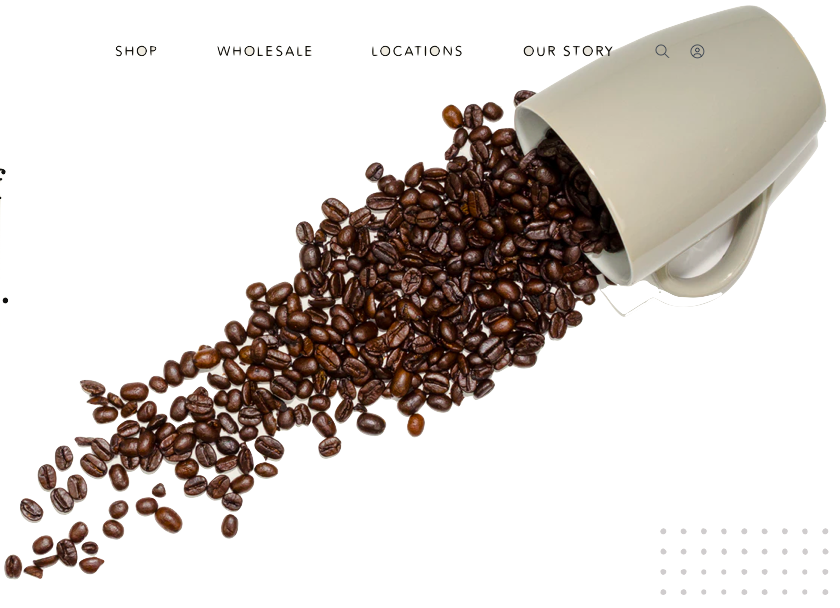
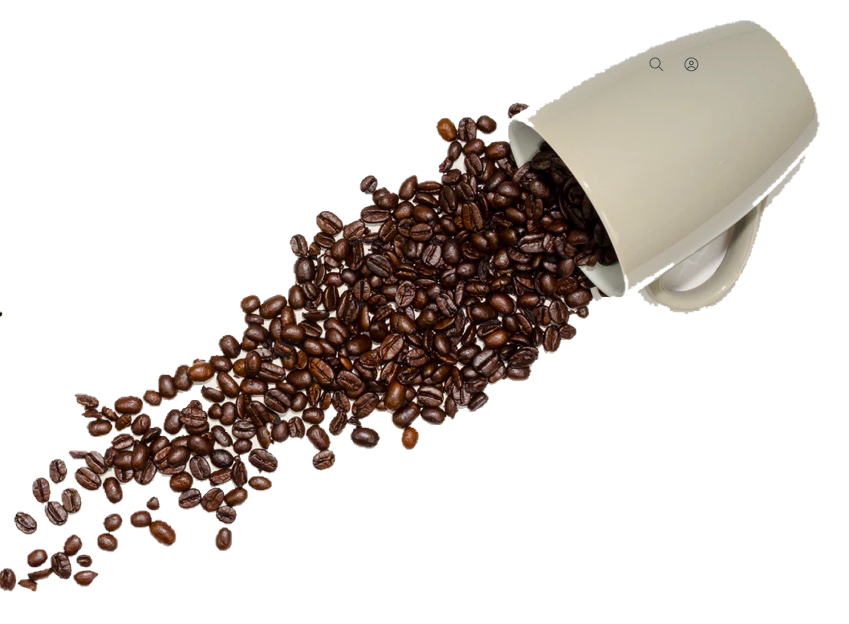
chore

diff --git a/pages/index.vue b/pages/index.vue
@@ -1,15 +1,25 @@
 <template>
   <div class="home">
+    <div class="test">
+      <transition name="bounce" appear>
+        <h2 v-if="showTransition">some text</h2>
+      </transition>
+    </div>
     <v-row align="center" class="top-banner">
       <v-col cols="12" md="4">
-        <MarketingBlock
-          preheading="Premium Coffee"
-          heading="A cup of coffee is one of the most important, simple pleasures in life."
-          heading-tag="h1"
-        />
+        <transition name="bounce" appear>
+          <MarketingBlock
+            v-if="showTransition"
+            preheading="Premium Coffee"
+            heading="A cup of coffee is one of the most important, simple pleasures in life."
+            heading-tag="h1"
+          />
+        </transition>
       </v-col>
       <v-col class="hidden-sm-and-down" cols="8">
-        <img src="@/assets/images/banner.png" alt="Coffee Beans And Cup" />
+        <transition name="slide-fade" appear>
+          <img src="@/assets/images/banner.png" alt="Coffee Beans And Cup" />
+        </transition>
       </v-col>
     </v-row>
 
@@ -45,7 +55,7 @@
     </v-row>
 
     <MarketingSection
-      image="coffee-bronze.png"
+      image="beans.png"
       heading="The secret Lies Within The Bean"
       subheading=" Lorem ipsum dolor sit amet consectetur adipisicing elit. Deleniti
           laboriosam rem hic nam esse dolorem, nemo vero commodi maiores facere."
@@ -63,6 +73,11 @@ export default {
     CoffeeProduct
   },
 
+  data() {
+    return {
+      showTransition: true
+    }
+  },
   computed: {
     coffeeProducts() {
       return this.$store.state.coffeeProducts

diff --git a/assets/main.css b/assets/main.css
@@ -1,0 +1,35 @@
+.page-enter-active, .page-leave-active {
+    transition: opacity .5s
+  }
+  .page-enter, .page-leave-active {
+    opacity: 0
+  }
+  
+  .bounce-enter-active {
+    animation: bounce-in .8s;
+  }
+  .bounce-leave-active {
+    animation: bounce-out .5s;
+  }
+  @keyframes bounce-in {
+    0% { transform: scale(0) }
+    50% { transform: scale(1.5) }
+    100% { transform: scale(1) }
+  }
+  @keyframes bounce-out {
+    0% { transform: scale(1) }
+    50% { transform: scale(1.5) }
+    100% { transform: scale(0) }
+  }
+  
+  /* .slide-left-enter,
+  .slide-right-leave-active {
+    opacity: 0;
+    transform: translate(30px, 0);
+  }
+  .slide-left-leave-active,
+  .slide-right-enter {
+    opacity: 0;
+    transform: translate(-30px, 0);
+  }
+   */

diff --git a/assets/main.sass b/assets/main.sass
@@ -1,0 +1,15 @@
+.fade-enter-active, .fade-leave-active
+    transition: opacity .5s
+
+.fade-enter, .fade-leave-to
+    opacity: 0
+
+.slide-fade-enter-active
+  transition: all .3s ease
+
+.slide-fade-leave-active
+  transition: all .8s cubic-bezier(1.0, 0.5, 0.8, 1.0)
+
+.slide-fade-enter, .slide-fade-leave-to
+  transform: translateX(10px)
+  opacity: 0

diff --git a/nuxt.config.js b/nuxt.config.js
@@ -26,7 +26,7 @@ export default {
   /*
    ** Global CSS
    */
-  css: [],
+  css: ['@/assets/main.css'],
   /*
    ** Plugins to load before mounting the App
    */
